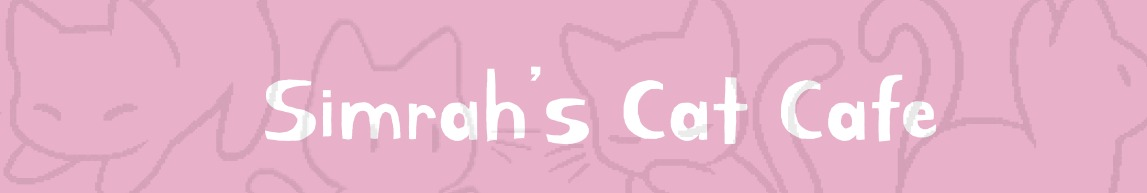
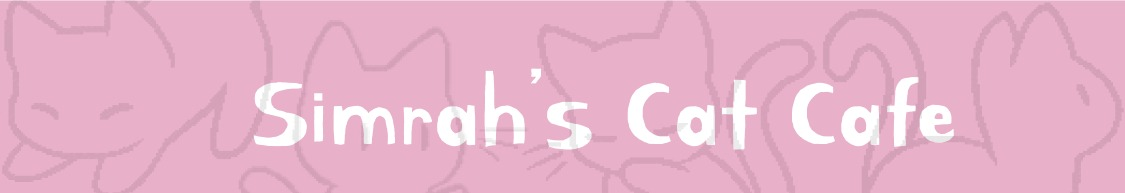
changing the idea for the page 3

diff --git a/page3_A2.html b/page3_A2.html
@@ -3,7 +3,7 @@
     <head>
         <meta charset="UTF-8">
         <meta name="viewport" content="width=device-width, initial-scale=1.0">
-        <title>Home</title>
+        <title>Events</title>
         <style>
             * {
                 margin: auto;
@@ -12,26 +12,26 @@
             .header {
                 background-color: #e9b0c9;
                 border: dotted 5px whitesmoke;
-                color:white; 
-                /*background-image:url("images");*/
-                font-family:'Times New Roman', Times, serif;
                 margin-top: 0px;
-                padding: 20px;
             }
-            .header h1 {
-                text-align: center;
-            }
-            .header p {
-                font-style: italic;
-                font-size: larger;
-                text-align: center;
+            .container {
+                display: flex;
+                justify-content: space-around;
+                height: fit-content;
             }
             .navigation {
+                display: flex;
                 font-family:Cambria, Cochin, Georgia, Times, 'Times New Roman', serif;
                 text-align:center;
-                padding: 10px;
                 background-color: #e9b0c9;
                 text-decoration: none;
+                flex-direction: column;
+                padding: 10px;
+                margin: 0px;
+                width: 10%;
+            }
+            .navigation::after {
+                clear:both;
             }
             .nav-link {
                 font-weight: 700;
@@ -41,9 +41,32 @@
                 border: white 1px solid;
                 border-radius: 3px;
                 padding: 6px;
+                margin: 5px;
             }
             .nav-link:hover{
                 background-color: #e790b5;
+            }
+            .main {
+                display: flex;
+                width: 65%;
+                margin: 0 auto;
+                padding: 20px;
+                flex-wrap: wrap;
+            }
+            .aside {
+                margin: 20px;
+                width: 25%;
+                background-color:#f4f4f4;
+                padding: 5px;
+                line-height: 40px;
+                height: max-content;
+                border-radius: 10px;
+            }
+            .box {
+                padding: 20px;
+                margin: 10px;
+                flex: 1;
+                border: 1px solid burlywood;
             }
             .footer {
                 color:white;
@@ -59,13 +82,41 @@
     </head>
     <body>
         <div class="header">
-            <h1>Simrah's Cat Cafe</h1>
-            <p>Come play with our furry friends!</p>
+            <center><img src="images/heading.jpeg" style="width: 700px; margin-top: 0px;"></center>
         </div>
-        <div class="navigation">
-            <a class="nav-link" href="index_A2.html">Home</a>
-            <a class="nav-link" href="page2_A2.html">Our Cats</a>
-            <a class="nav-link" href="page3_A2.html">Adopt</a>
+        <div class="container">
+            <div class="navigation">
+                <a class="nav-link" href="index_A2.html">Home</a>
+                <a class="nav-link" href="page2_A2.html">Our Cats</a>
+                <a class="nav-link" href="page3_A2.html">Events</a>
+            </div>
+            <div class="main">
+            <div class="box">
+                <img src="images/page2_1.jpeg" height="250px">
+                <p>Meet Coco! The friendliest face of our establishment. He loves talking to everyone and gets a little moody when not fed.</p>
+            </div>
+            <div class="box">
+                <img src="images/page2_2.jpeg" height="250px">
+                <p>Meet our love birds, Hello Kitty and Dear Daniel! They love being next to each other and hates when someone pets the other one.</p>
+            </div>
+            <div class="box">
+                <img src="images/page2_3.jpeg" height="250px">
+                <p>Meet Ruby! The queen of our place. She loves to boss around other cats and meows when not loved.</p>
+            </div>
+            <div class="box">
+                <img src="images/page2_4.jpg" height="250px">
+                <p>Meet Princess! The biggest sleepy head. She loves to sleep and sleep and sleep. Her favorite activities are sleeping.</p>
+            </div>
+            <div class="box">
+                <img src="images/page2_5.jpg" height="250px">
+                <p>Meet Boba! He's a fatty and loves to eat all day long. He gives the best cuddles though. We kinda hate him.</p>
+            </div>
+            <div class="box">
+                <img src="images/page2_6.jpg" height="250px">
+                <p>Meet Felix! Be careful of your drinks and snacks because he might run and eat it all. He's the youngest.</p>
+            </div>
+        </div> 
+        
         </div>
         <div class="footer">
             <footer>Copyright &copy; Simrah Shabandri</footer>

diff --git a/styles.css b/styles.css
@@ -5,14 +5,9 @@
 .header {
     background-color: #e9b0c9;
     border: dotted 5px whitesmoke;
-    color:white; 
-    /*background-image:url("images");*/
-    font-family:'Times New Roman', Times, serif;
+    color:white;
     margin-top: 0px;
-    padding: 20px;
-}
-.header h1 {
-    text-align: center;
+    
 }
 .header p {
     font-style: italic;
